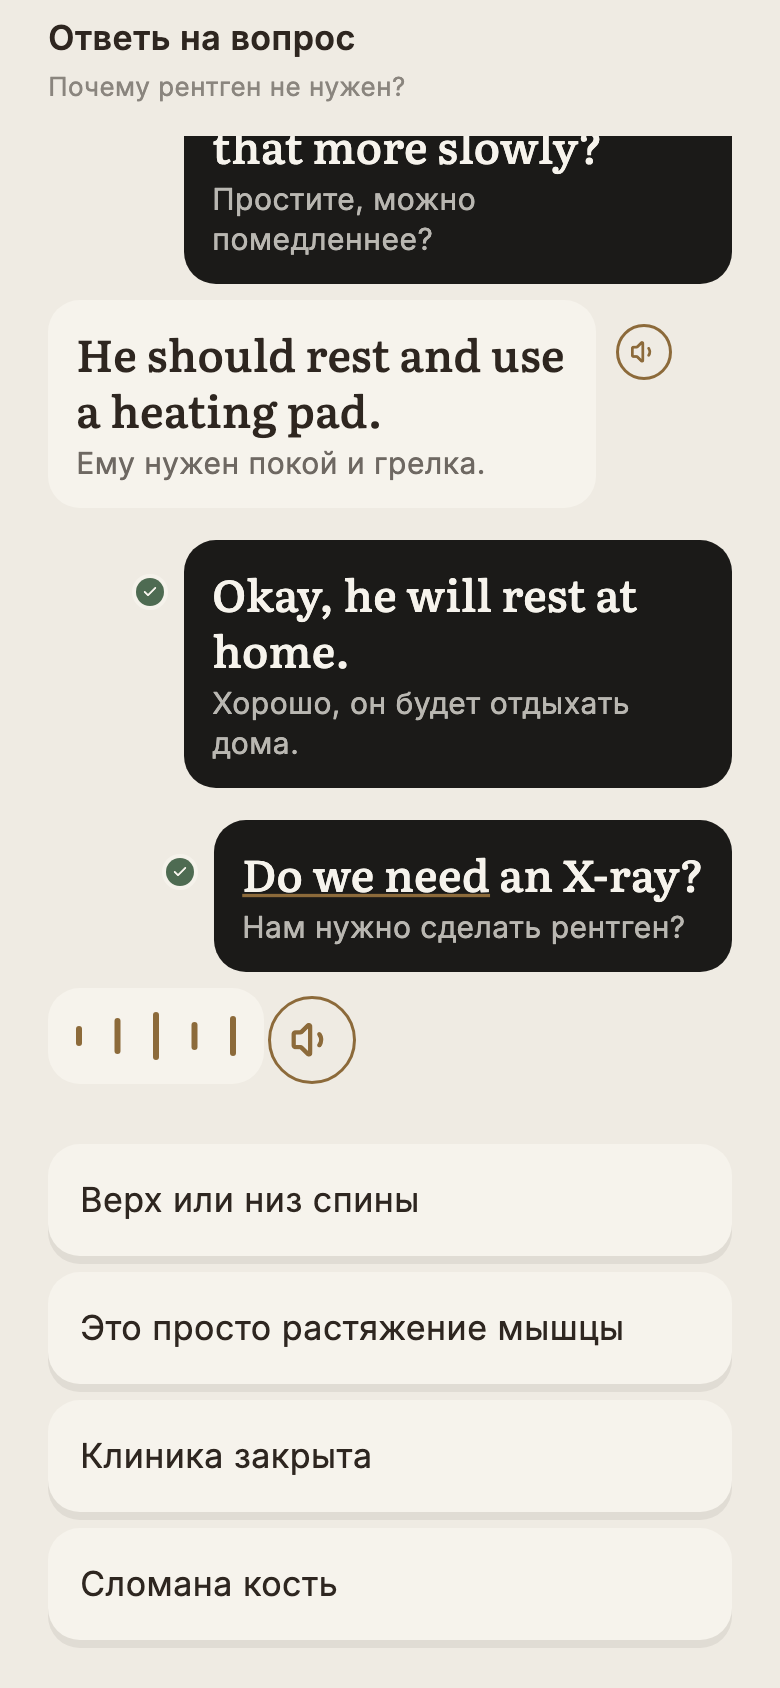
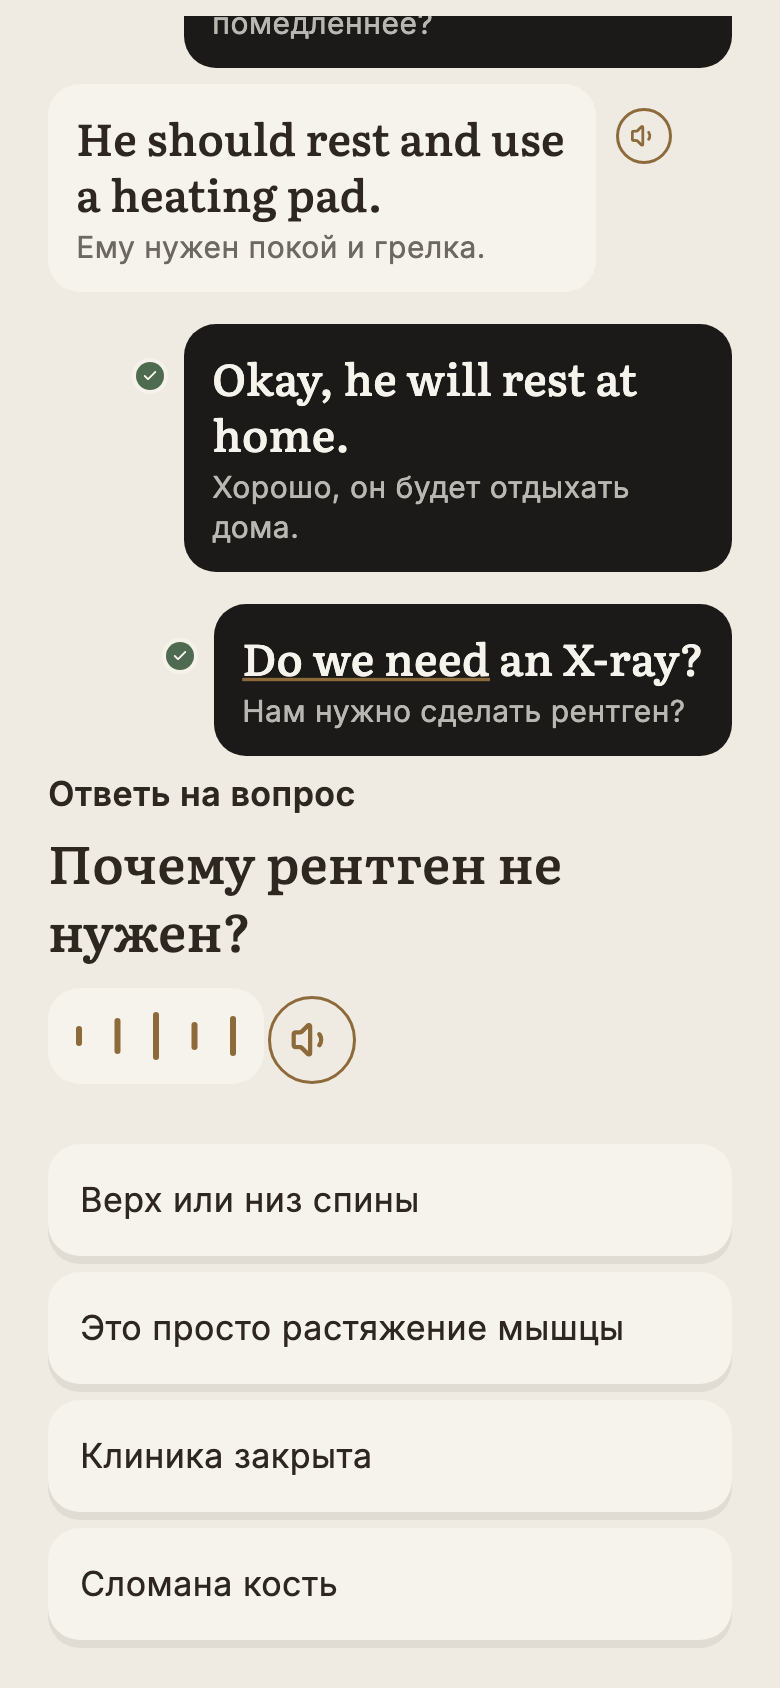
docs(plan): FIX-1 — доработка п. 1 в отчёте и снимки
§1а: почему вопрос переехал к пузырю и почему это сделано на обоих экранах
проверки. Пересняты 01 (33-5 на шестом обмене) и добавлен 07 (33-1 — экран,
который владелец видел живьём).

SKIP_GATES=1: коммит документов, код не менялся — ворота прогнаны на 98af1f4f.

Changed region(s): [[0.0615, 0.0, 0.9538, 0.5853]]

diff --git a/backend2/docs/research/fix-1/README.md b/backend2/docs/research/fix-1/README.md
@@ -47,6 +47,26 @@
 варианты — того обмена, который ведёт карточка», «после двух неудач ответ всё равно приходит закрытым и звучит, и
 проверка задаётся», «„Пропустить“ закрывает карточку сразу». Плюс переписан старый тест ленты 33-7.
 
+### 1а. Доработка: вопрос стоит у пузыря, а не у верхней кромки
+
+**Что увидел владелец на снимке (18.09, после первой правки).** Задание и вопрос перестали уезжать — но стоят у
+верхней кромки экрана мелким серым, над ними лента, и читаются как часть шапки: «теряются за лентой».
+
+**Сделано.** У экрана проверки больше НЕТ своей строки задания наверху. Вопрос переехал в тело карточки — туда, где
+стоит то, о чём он спрашивает: «Ответь на вопрос» мелким, под ним вопрос КРУПНО, стилем вопроса карточки
+(`AppTextSession.question`, Literata 26/34), и сразу под ним закрытый пузырь агента с волной и «прослушать» 44;
+варианты — в доке. Один блок, как в кадре 33-5. Лента разговора по-прежнему прокручивается над ним.
+
+**Сделано на ОБОИХ экранах проверки, а не только на «спроси сам»** — и это решение, которое стоит назвать. 33-1
+(«Пойми собеседника») — та же проверка с тем же закрытым пузырём и тем же вопросом сервера, и живьём владелец видел
+именно её (обмен x6). Оставить там серую строку у кромки значило бы починить один из двух одинаковых экранов.
+
+`CardLayout.task` стал необязательным: карточка вправе сказать, что делать, внутри своего тела. Новый блок —
+`SessionCheckQuestion` в `session_bits.dart`.
+
+**Тест** (`session_dialogue_cards_test.dart`, в том же «варианты без вопроса»): вопрос нарисован стилем
+`AppTextSession.question`, стоит не выше 200 pt от верха (то есть у пузыря, а не у кромки) и ближе 32 pt к пузырю.
+
 ### 2. Фризы при смене экрана в «Диалоге» и «Говорю сам»
 
 **Причина — аудиодвижок на UI-потоке.** `AudioMixer` (наш `AVAudioEngine` в `AppDelegate.swift`) делал ВСЁ на
@@ -222,7 +242,8 @@ cd mobile && flutter test test/features/plan/session/fix1_shots_test.dart --dart
 
 | Файл | Что на нём |
 |---|---|
-| `01-dialogue-question.png` | п. 1: задание и вопрос стоят на экране, лента ушла под них, закрытый ответ с «прослушать» 44, варианты внизу |
+| `01-dialogue-question.png` | п. 1 + доработка: «спроси сам» на шестом обмене — вопрос крупно над закрытым ответом, задание над ним, лента прокручивается выше, варианты в доке |
+| `07-dialogue-partner-question.png` | доработка: тот же блок у 33-1 — экран, который владелец видел живьём |
 | `02-say-whole-round.png` | п. 6: круг значения — «neck» в окне, «lower back» с галкой, «shoulder» впереди |
 | `03-say-whole-own-word.png` | п. 6: последний круг — пустое окно, «а теперь со своим словом», все значения с галками |
 | `04-replay-stage-entry.png` | п. 5: состояние этапа — «повтор» |
@@ -233,7 +254,7 @@ cd mobile && flutter test test/features/plan/session/fix1_shots_test.dart --dart
 
 ## §6. Ворота
 
-`flutter analyze` — 0 замечаний. `flutter test` — **1527 зелёных** (было 1514 на сборке (9)): переписаны тесты
+`flutter analyze` — 0 замечаний. `flutter test` — **1528 зелёных** (было 1514 на сборке (9)): переписаны тесты
 снесённых экранов и правил, добавлены тесты каждого пункта наряда и харнесс снимков.
 
 **На устройстве не проверено ничего**: сборка на телефон — после того, как архитектор посмотрит снимки (правило
@@ -242,5 +263,5 @@ cd mobile && flutter test test/features/plan/session/fix1_shots_test.dart --dart
 
 ## §7. Хеши
 
-- код — `19323f49` (шесть пунктов, тесты, снимочный харнесс, сборка 1.0.0 (10));
-- документы — `a7296b2e` (этот отчёт, шесть снимков, строки `design-map.md`).
+- код — `19323f49` (шесть пунктов, тесты, снимочный харнесс, сборка 1.0.0 (10)) и `98af1f4f` (доработка п. 1: вопрос у пузыря);
+- документы — `a7296b2e` (отчёт, снимки, строки `design-map.md`), `cdab6c19` (хеши) и коммит доработки в отчёте.
